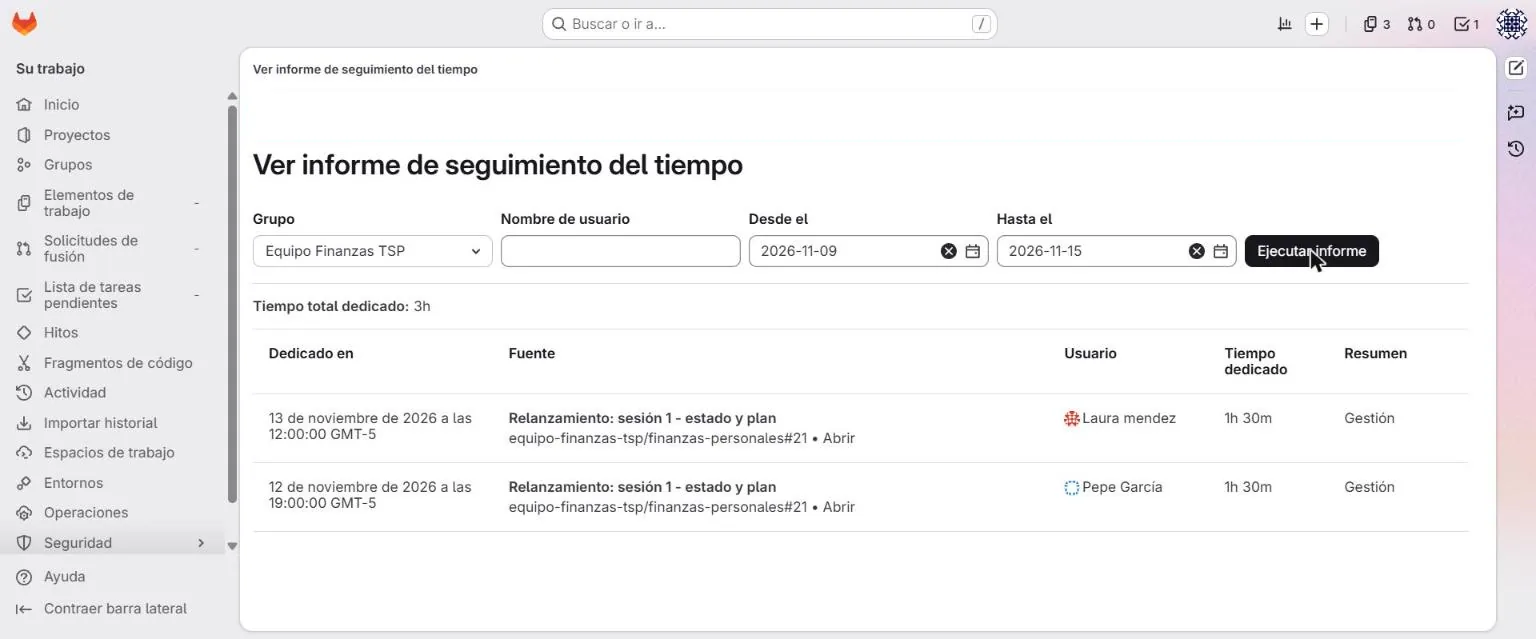
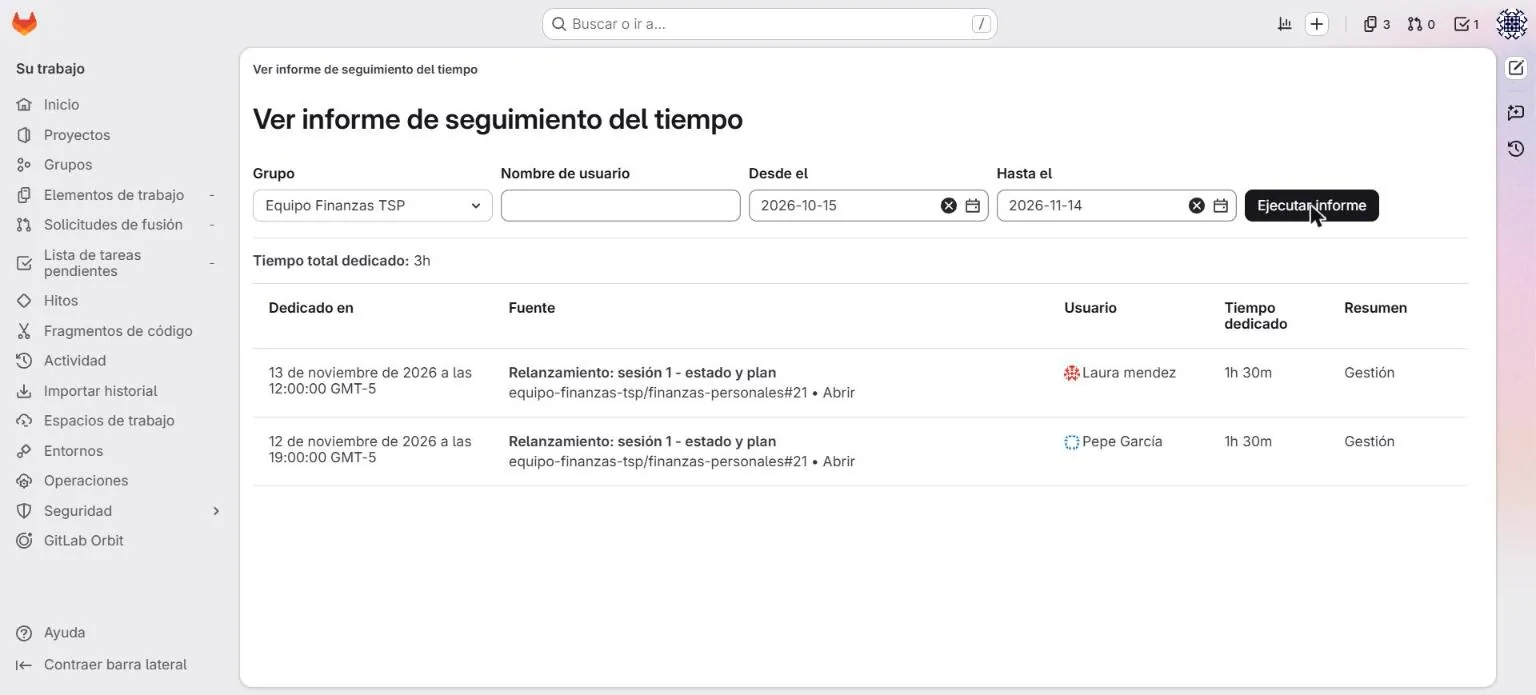
Ajustes de revisión: alcance de la Entrega 2, notificaciones, roles TSP en GitLab, informe de tiempo paso a paso
Claude-Session: https://claude.ai/code/session_01TvmXJL8nTxnQZgJsu4p4hC

diff --git a/etapa-1.html b/etapa-1.html
@@ -11,6 +11,7 @@
   <p class="kicker">Proyecto TSP en GitLab · Etapa 1</p>
   <h1>Montaje del proyecto</h1>
   <p>En esta etapa el equipo crea su espacio de trabajo en GitLab y deja configurado lo que va a usar durante el resto del proyecto: integrantes, semanas, etiquetas, plantillas y los documentos del equipo.</p>
+  <div class="alert" style="margin:1rem 0 0;background:#fff;color:var(--ink)"><strong>Este material corresponde a la Entrega 2.</strong> El material para la Entrega 3 se publicará en su momento.</div>
   <nav><a href="index.html">Inicio</a><a class="on" href="etapa-1.html">Etapa 1: montaje</a><a href="etapa-2.html">Etapa 2: planeación y registro de tiempo</a><a href="entrega-2.html">Entrega 2</a></nav>
 </div></header>
 
@@ -49,31 +50,52 @@
   </table>
   <h3>Idioma de la interfaz</h3>
   <p>GitLab muestra los menús en el idioma configurado en cada cuenta, así que algunos de ustedes lo verán en español y otros en inglés. En este manual cada nombre aparece en los dos idiomas, por ejemplo <b>Elementos de trabajo</b> <i>(Work items)</i>. Para cambiar el idioma: avatar &gt; <b>Preferencias</b> <i>(Preferences)</i> &gt; <b>Idioma</b> <i>(Language)</i>.</p>
+  <p>En el desarrollo de software es común usar los términos en inglés o anglicismos, como <i>issue</i>, <i>commit</i>, <i>merge request</i> o <i>milestone</i>, incluso cuando se habla en español. Familiarizarse con ellos desde ahora les facilita leer documentación, trabajar con otras herramientas y comunicarse en equipos de la industria.</p>
   <h3>Versión gratuita</h3>
   <p>Todo lo que se explica aquí funciona en la versión gratuita de GitLab. Al crear un grupo, GitLab puede ofrecer una prueba de 30 días de la versión de pago (Ultimate). No la necesitan, y si la activan, tengan en cuenta que las funciones adicionales desaparecen cuando termina. Usen solo lo que indica este manual.</p>
   <div class="note">En algunas páginas se abre a la derecha un panel llamado <b>GitLab Duo</b> que pide verificar la cuenta. Es un asistente de inteligencia artificial que este proyecto no usa. Pueden cerrarlo con la <b>X</b>.</div>
 </section>
 
 <section id="cuenta">
-  <span class="who">Cada uno de ustedes</span>
+  <span class="who">Lo hacen todos, cada uno por su cuenta</span>
   <h2>Cuenta personal</h2>
   <p><b>Qué es y para qué sirve.</b> En TSP cada integrante registra sus propios datos: su tiempo, sus tareas y los defectos que encuentra. Por eso cada uno trabaja con su propia cuenta, y todo lo que registre queda a su nombre.</p>
   <div class="where">En GitLab: <b>Editar perfil</b> <span class="en">(Edit profile)</span>, en el menú del avatar, arriba a la derecha.</div>
   <h3>Cómo se hace</h3>
   <ol class="steps">
-    <li>Ingresen a <b>gitlab.com</b> y creen su cuenta con <b>Registrarse</b> <i>(Register)</i>. También pueden entrar con su cuenta de Google. Confirmen el correo cuando GitLab se lo pida.</li>
+    <li>Ingresen a <b>gitlab.com</b> y creen su cuenta con <b>Registrarse</b> <i>(Register)</i>. Les recomiendo usar su correo institucional, con dominio <code>@poligran.edu.co</code>. Confirmen el correo cuando GitLab se lo pida.</li>
     <li>Seleccionen su avatar y elijan <b>Editar perfil</b> <i>(Edit profile)</i>.
       <figure><img src="etapas/img/e1-cuenta-menu.webp" alt="Menú del avatar con la opción Editar perfil"><figcaption>Menú del avatar.</figcaption></figure></li>
     <li>En <b>Nombre</b> <i>(Full name)</i> escriban su nombre y apellidos tal como aparecen en el aula virtual, y guarden con <b>Actualizar la configuración del perfil</b> <i>(Update profile settings)</i>, al final de la página.
       <figure><img src="etapas/img/e1-cuenta-nombre.webp" alt="Campo Nombre en Editar perfil"><figcaption>El nombre es el que aparece en todos sus registros.</figcaption></figure></li>
     <li>Compartan con su equipo su <b>nombre de usuario</b>, el que aparece con <code>@</code> debajo de su nombre al seleccionar el avatar. Con ese usuario los van a agregar al grupo.</li>
   </ol>
+  <h3>Notificaciones</h3>
+  <p>GitLab envía avisos al correo con el que crearon la cuenta. Por eso conviene usar el correo institucional: allí les llegan los avisos del proyecto junto con los del curso.</p>
+  <p>Con la configuración inicial, el nivel <b>Participar</b> <i>(Participate)</i>, reciben avisos cuando:</p>
+  <ul>
+    <li>les asignan una tarea, un requisito o un acta;</li>
+    <li>alguien los menciona con su <code>@usuario</code>;</li>
+    <li>hay comentarios o cambios en un elemento de trabajo en el que participan, por ejemplo uno que crearon o en el que comentaron.</li>
+  </ul>
+  <p>Los niveles disponibles son:</p>
+  <table>
+    <tr><th>Nivel</th><th>Qué notifica</th></tr>
+    <tr><td><b>Participar</b> <i>(Participate)</i></td><td>Lo descrito arriba. Es el nivel recomendado.</td></tr>
+    <tr><td><b>Ver</b> <i>(Watch)</i></td><td>Casi toda la actividad del grupo o del proyecto. Útil para el líder del equipo, aunque genera muchos correos.</td></tr>
+    <tr><td><b>En mención</b> <i>(On mention)</i></td><td>Solo los comentarios en que los mencionan.</td></tr>
+    <tr><td><b>Personalizado</b> <i>(Custom)</i></td><td>Lo de Participar más los eventos que cada uno elija. Por ejemplo, el aviso de que una tarea suya vence al día siguiente <i>(Issue due)</i>.</td></tr>
+    <tr><td><b>Deshabilitado</b> <i>(Disabled)</i></td><td>Ningún aviso. No lo usen en el grupo del equipo.</td></tr>
+  </table>
+  <p>Para revisarlo: avatar &gt; <b>Editar perfil</b> <i>(Edit profile)</i> &gt; <b>Notificaciones</b> <i>(Notifications)</i>. Allí ven el correo al que llegan los avisos, el nivel general y el nivel de cada grupo.</p>
+  <figure><img src="etapas/img/e1-notificaciones.webp" alt="Página de notificaciones del usuario"><figcaption>Correo de notificación, nivel general y nivel por grupo.</figcaption></figure>
+  <figure><img src="etapas/img/e1-notificaciones-nivel.webp" alt="Lista de niveles de notificación de un grupo"><figcaption>Niveles disponibles para el grupo del equipo.</figcaption></figure>
 </section>
 
 <section id="grupo">
   <span class="who one">Solo una persona del equipo</span>
   <h2>Grupo del equipo</h2>
-  <div class="alert"><strong>Este paso lo hace una sola persona.</strong> Pónganse de acuerdo antes de empezar; normalmente lo hace el gerente de soporte. Si varios crean grupos, el equipo queda dividido en espacios distintos y los registros no se juntan.</div>
+  <div class="alert"><strong>Este paso lo hace una sola persona.</strong> Pónganse de acuerdo antes de empezar; lo recomendable es que lo haga el gerente de soporte. Si varios crean grupos, el equipo queda dividido en espacios distintos y los registros no se juntan.</div>
   <p><b>Qué es y para qué sirve.</b> Un equipo TSP tiene integrantes claramente definidos (Lectura 2, sección 5). En GitLab el equipo es un <b>grupo</b>: reúne a los integrantes y contiene el proyecto. Quien pertenece al grupo puede trabajar en el proyecto.</p>
   <div class="where">En GitLab: botón <b>+</b> de la barra superior &gt; <b>Nuevo grupo</b> <span class="en">(New group)</span> &gt; <b>Crear grupo</b> <span class="en">(Create group)</span>.</div>
   <h3>Cómo se hace</h3>
@@ -99,10 +121,21 @@
       <figure><img src="etapas/img/e1-miembros.webp" alt="Página Miembros del grupo"><figcaption>Página de miembros con el botón Invitar miembros.</figcaption></figure></li>
     <li>Escriban el nombre de usuario de cada compañero. GitLab muestra cuántos cupos quedan: un grupo privado gratuito admite máximo cinco integrantes.
       <figure><img src="etapas/img/e1-invitar.webp" alt="Diálogo Invitar miembros"><figcaption>Diálogo de invitación con el aviso de cupos disponibles.</figcaption></figure></li>
-    <li>En <b>Rol</b> elijan <b>Encargado de mantenimiento</b> <i>(Maintainer)</i>. Con este rol todos pueden crear elementos de trabajo, editar la wiki, crear ramas e integrar código. Seleccionen <b>Invitar</b>.
+    <li>En <b>Rol</b> elijan <b>Encargado de mantenimiento</b> <i>(Maintainer)</i> para todos. Con este rol cada uno puede crear elementos de trabajo, editar la wiki, crear ramas e integrar código. Seleccionen <b>Invitar</b>.
       <figure><img src="etapas/img/e1-roles.webp" alt="Lista de roles de GitLab"><figcaption>La lista de roles; bajen hasta Encargado de mantenimiento.</figcaption></figure></li>
     <li>Cada compañero aparece en la lista de miembros y recibe un correo de aviso. Si alguno no aparece, revisen que el nombre de usuario esté bien escrito.</li>
   </ol>
+  <h3>Cómo se relacionan los roles de TSP con GitLab</h3>
+  <p>En GitLab todos tienen los mismos permisos, para que nadie dependa de otro para registrar su trabajo. Quien crea el grupo queda como <b>Propietario</b> <i>(Owner)</i>, el único que puede agregar o retirar integrantes y cambiar la configuración del grupo. Por eso conviene que lo cree el <b>gerente de soporte</b>, que en TSP responde por las herramientas del equipo y la gestión de la configuración (Lectura 3, sección 2.2).</p>
+  <p>Cada rol TSP tiene, además, responsabilidades concretas dentro de GitLab:</p>
+  <table>
+    <tr><th>Rol TSP</th><th>De qué se encarga en GitLab</th></tr>
+    <tr><td>Líder del equipo</td><td>Que cada reunión tenga su acta; revisar con el equipo la página del hito de cada semana.</td></tr>
+    <tr><td>Gerente de planeación</td><td>Hitos, tareas con estimación, fechas y responsable; seguimiento del tiempo dedicado frente al estimado.</td></tr>
+    <tr><td>Gerente de desarrollo</td><td>Requisitos con sus criterios de aceptación; más adelante, el código y su integración.</td></tr>
+    <tr><td>Gerente de calidad y proceso</td><td>Etiquetas y plantillas; registro de defectos y que todos registren su tiempo con la fase.</td></tr>
+    <tr><td>Gerente de soporte</td><td>Grupo, integrantes, proyecto y repositorio; ayudar a los compañeros con la herramienta.</td></tr>
+  </table>
 </section>
 
 <section id="proyecto">
@@ -120,7 +153,7 @@
 </section>
 
 <section id="hitos">
-  <span class="who">Uno de ustedes</span>
+  <span class="who">Lo hace una persona del equipo</span>
   <h2>Hitos: las semanas del ciclo</h2>
   <p><b>Qué es.</b> En TSP el calendario del plan se organiza por semanas, y en cada semana el equipo compromete un conjunto de tareas (Lectura 5, sección 4.4). En GitLab cada semana del ciclo es un <b>hito</b> <i>(milestone)</i>, con su fecha de inicio y su fecha de fin.</p>
   <p><b>Para qué sirve.</b> Cada tarea se asigna al hito de la semana en que se va a hacer. Así la página de cada hito muestra lo comprometido para esa semana, cuánto avanzó y cuánto tiempo se dedicó frente a lo estimado. Es la base del seguimiento semanal.</p>
@@ -136,7 +169,7 @@
 </section>
 
 <section id="etiquetas">
-  <span class="who">Uno de ustedes</span>
+  <span class="who">Lo hace una persona del equipo</span>
   <h2>Etiquetas</h2>
   <p><b>Qué es.</b> Una etiqueta <i>(label)</i> es una marca que clasifica los elementos de trabajo. En TSP los registros se clasifican para poder contarlos y analizarlos: requisitos, tareas, actas, defectos por tipo y por fase.</p>
   <p><b>Para qué sirve.</b> Con las etiquetas pueden filtrar la lista, por ejemplo ver solo los requisitos o solo las actas, y al descargar los datos cada registro lleva su clasificación.</p>
@@ -162,7 +195,7 @@
 </section>
 
 <section id="plantillas">
-  <span class="who">Uno de ustedes</span>
+  <span class="who">Lo hace una persona del equipo</span>
   <h2>Plantillas</h2>
   <p><b>Qué es.</b> En TSP los registros siguen formatos definidos: actas de reunión, reportes semanales, registros de defectos (Lectura 2, sección 3). En GitLab un formato es una <b>plantilla de descripción</b> <i>(description template)</i>: un texto que se carga en la descripción de un elemento de trabajo nuevo, con los campos que hay que diligenciar.</p>
   <p><b>Para qué sirve.</b> Con una plantilla todos registran los mismos datos, en el mismo orden, sin tener que recordar el formato. Una plantilla puede, además, poner sola su etiqueta al crear el elemento.</p>
@@ -205,7 +238,7 @@
 </section>
 
 <section id="wiki">
-  <span class="who">Todos</span>
+  <span class="who">Lo hace todo el equipo</span>
   <h2>Wiki del equipo</h2>
   <p><b>Qué es.</b> La wiki <i>(Wiki)</i> es un conjunto de páginas del proyecto que todos los integrantes pueden editar, y que guarda el historial de cada cambio. Es el lugar de los documentos del equipo.</p>
   <p><b>Para qué sirve.</b> Aquí migran la información de la Entrega 1 que sigue vigente: el planteamiento del proyecto y la conformación del equipo. Al quedar en la wiki, el equipo la actualiza en cada ciclo y queda el registro de cómo evolucionó.</p>

diff --git a/entrega-2.html b/entrega-2.html
@@ -11,6 +11,7 @@
   <p class="kicker">Proyecto TSP en GitLab · Entrega 2</p>
   <h1>Cómo preparar la Entrega 2</h1>
   <p>La evidencia de la Entrega 2 sale directamente de su proyecto en GitLab: se descarga una lista con todos los elementos de trabajo y se guardan como PDF las páginas que muestran el plan, el tiempo, las actas y los documentos del equipo.</p>
+  <div class="alert" style="margin:1rem 0 0;background:#fff;color:var(--ink)"><strong>Este material corresponde a la Entrega 2.</strong> El material para la Entrega 3 se publicará en su momento.</div>
   <nav><a href="index.html">Inicio</a><a href="etapa-1.html">Etapa 1: montaje</a><a href="etapa-2.html">Etapa 2: planeación y registro de tiempo</a><a class="on" href="entrega-2.html">Entrega 2</a></nav>
 </div></header>
 
@@ -33,9 +34,9 @@
   <h2>Qué se entrega</h2>
   <p>La Entrega 2 pide mostrar la evolución del proyecto desde la Entrega 1: las actas de los lanzamientos con su nombre correcto, los registros personales, el desarrollo, el avance y el resumen de la semana. Cada una de esas evidencias corresponde a un archivo:</p>
   <table>
-    <tr><th>Evidencia</th><th>Archivo</th><th>De dónde sale</th></tr>
-    <tr><td>Plan y avance: requisitos, tareas, responsables, estimación, tiempo dedicado, fechas, hito y estado; también los defectos registrados</td><td><code>TSP_E2_SGxx_elementos.csv</code></td><td>Elementos de trabajo &gt; Exportar como CSV</td></tr>
-    <tr><td>Registros personales de tiempo de todo el equipo</td><td><code>TSP_E2_SGxx_tiempo.pdf</code></td><td>Informe de seguimiento del tiempo del grupo</td></tr>
+    <tr><th>Evidencia</th><th>Archivo</th><th>De dónde sale</th><th>Cómo se obtiene</th></tr>
+    <tr><td>Plan y avance: requisitos, tareas, responsables, estimación, tiempo dedicado, fechas, hito y estado; también los defectos registrados</td><td><code>TSP_E2_SGxx_elementos.csv</code></td><td>Elementos de trabajo &gt; Exportar como CSV</td><td>Llega como adjunto al correo de la cuenta</td></tr>
+    <tr><td>Registros personales de tiempo de todo el equipo</td><td><code>TSP_E2_SGxx_tiempo.pdf</code></td><td>Informe de seguimiento del tiempo del grupo</td><td rowspan="5">Se guarda desde el navegador como PDF en su computador</td></tr>
     <tr><td>Resumen de la semana: tareas comprometidas, avance y tiempo dedicado frente al estimado</td><td><code>TSP_E2_SGxx_hito.pdf</code></td><td>Página del hito de la semana</td></tr>
     <tr><td>Actas del relanzamiento, con la versión 2.0 del plan</td><td><code>TSP_E2_SGxx_acta1.pdf</code>, <code>TSP_E2_SGxx_acta2.pdf</code></td><td>Cada acta del relanzamiento</td></tr>
     <tr><td>Planteamiento del proyecto actualizado</td><td><code>TSP_E2_SGxx_planteamiento.pdf</code></td><td>Wiki: Planteamiento del proyecto</td></tr>
@@ -50,7 +51,7 @@
   <ol class="steps">
     <li>Abran la página en GitLab. Para que el PDF quede más limpio, oculten el menú izquierdo con <b>Contraer barra lateral</b> <i>(Collapse sidebar)</i>, abajo a la izquierda.</li>
     <li>Presionen <b>Ctrl + P</b> (en Mac, <b>Cmd + P</b>).</li>
-    <li>En <b>Destino</b> elijan <b>Guardar como PDF</b> y seleccionen <b>Guardar</b>. Pónganle al archivo el nombre que indica la tabla.</li>
+    <li>En <b>Destino</b> elijan <b>Guardar como PDF</b> y seleccionen <b>Guardar</b>. Elijan la carpeta de su computador donde quedará el archivo y pónganle el nombre que indica la tabla.</li>
   </ol>
 </section>
 
@@ -62,19 +63,25 @@
     <li>Seleccionen el menú de tres puntos, al lado de <b>Nuevo elemento</b>, y elijan <b>Exportar como CSV</b> <i>(Export as CSV)</i>.
       <figure><img src="etapas/img/e2-exportar.webp" alt="Menú con la opción Exportar como CSV"><figcaption>Opción Exportar como CSV.</figcaption></figure></li>
     <li>Confirmen con <b>Exportar elementos de trabajo</b>. GitLab prepara el archivo y lo envía como adjunto al correo de su cuenta en unos minutos.</li>
-    <li>Descarguen el adjunto y cámbienle el nombre a <code>TSP_E2_SGxx_elementos.csv</code>.</li>
+    <li>Abran el correo, descarguen el adjunto y cámbienle el nombre a <code>TSP_E2_SGxx_elementos.csv</code>. Si no lo ven en la bandeja de entrada, revisen el correo no deseado.</li>
   </ol>
   <div class="note">Si al abrir el CSV en Excel las tildes salen mal, ábranlo desde Excel con <b>Datos</b> &gt; <b>Desde texto/CSV</b> y elijan el origen <b>UTF-8</b>.</div>
 </section>
 
 <section id="tiempo">
   <h2>Informe de tiempo del equipo</h2>
+  <p>Es una página de GitLab que reúne todos los registros de tiempo de los integrantes del grupo en un periodo: quién trabajó, qué día, en qué elemento, cuánto tiempo y en qué fase. Es el registro de tiempo de todo el equipo en una sola página. Lo puede preparar cualquier integrante.</p>
+  <p>Esta página no aparece en los menús de GitLab; se abre con su dirección.</p>
   <ol class="steps">
-    <li>Abran <a href="https://gitlab.com/-/timelogs" target="_blank" rel="noopener">gitlab.com/-/timelogs</a>.</li>
-    <li>En <b>Grupo</b> elijan el grupo del equipo. Dejen vacío <b>Nombre de usuario</b> para que aparezcan todos los integrantes; si escriben el usuario de un compañero, GitLab puede mostrar un error.</li>
-    <li>En <b>Desde el</b> pongan la fecha del primer registro del equipo y en <b>Hasta el</b>, la fecha de la entrega. Seleccionen <b>Ejecutar informe</b>.
-      <figure><img src="etapas/img/e2-informe-equipo.webp" alt="Informe de seguimiento del tiempo del grupo"><figcaption>El informe muestra el total y cada registro con fecha, elemento, persona, tiempo y fase.</figcaption></figure></li>
-    <li>Guarden la página como PDF con el nombre <code>TSP_E2_SGxx_tiempo.pdf</code>.</li>
+    <li>Con su sesión de GitLab abierta, abran en el navegador la dirección <a href="https://gitlab.com/-/timelogs" target="_blank" rel="noopener">gitlab.com/-/timelogs</a>. Aparece la página <b>Ver informe de seguimiento del tiempo</b> <i>(Time tracking report)</i>, con cuatro campos y un botón.
+      <figure><img src="etapas/img/e2-informe-1.webp" alt="Página vacía del informe de seguimiento del tiempo"><figcaption>La página del informe antes de elegir el grupo.</figcaption></figure></li>
+    <li>Seleccionen el campo <b>Grupo</b> <i>(Group)</i> y elijan el grupo de su equipo en la lista.
+      <figure><img src="etapas/img/e2-informe-2.webp" alt="Lista de grupos del informe"><figcaption>La lista muestra los grupos a los que pertenecen.</figcaption></figure></li>
+    <li>Dejen vacío el campo <b>Nombre de usuario</b> <i>(Username)</i>, para que aparezcan todos los integrantes. Si escriben el usuario de un compañero, GitLab puede mostrar un error.</li>
+    <li>En <b>Desde el</b> <i>(From)</i> escriban o elijan la fecha del primer registro de tiempo del equipo; en <b>Hasta el</b> <i>(To)</i>, la fecha de la entrega. Así el informe cubre todo el trabajo registrado.</li>
+    <li>Seleccionen <b>Ejecutar informe</b> <i>(Run report)</i>. Arriba aparece el <b>Tiempo total dedicado</b> y, debajo, una fila por cada registro.
+      <figure><img src="etapas/img/e2-informe-equipo.webp" alt="Informe de seguimiento del tiempo del grupo"><figcaption>Informe del grupo: cada fila es un registro de tiempo, con fecha, elemento, persona, tiempo y fase.</figcaption></figure></li>
+    <li>Revisen que estén los registros de todos los integrantes. Luego guarden la página como PDF, como se explica en <a href="#pdf">Guardar una página como PDF</a>, con el nombre <code>TSP_E2_SGxx_tiempo.pdf</code>.</li>
   </ol>
 </section>
 

diff --git a/etapa-2.html b/etapa-2.html
@@ -11,6 +11,7 @@
   <p class="kicker">Proyecto TSP en GitLab · Etapa 2</p>
   <h1>Planeación y registro de tiempo</h1>
   <p>En esta etapa el equipo hace el relanzamiento: registra los requisitos, arma el plan de tareas con responsables, estimaciones y fechas, y empieza a registrar el tiempo que dedica a cada tarea.</p>
+  <div class="alert" style="margin:1rem 0 0;background:#fff;color:var(--ink)"><strong>Este material corresponde a la Entrega 2.</strong> El material para la Entrega 3 se publicará en su momento.</div>
   <nav><a href="index.html">Inicio</a><a href="etapa-1.html">Etapa 1: montaje</a><a class="on" href="etapa-2.html">Etapa 2: planeación y registro de tiempo</a><a href="entrega-2.html">Entrega 2</a></nav>
 </div></header>
 
@@ -31,7 +32,7 @@
 <main>
 
 <section id="relanzamiento">
-  <span class="who">Todos</span>
+  <span class="who">Lo hace todo el equipo</span>
   <h2>El relanzamiento</h2>
   <p><b>Qué es.</b> En TSP, cuando un equipo ya tiene un plan y la situación cambia, hace un <b>relanzamiento</b>: revisa cómo va frente al plan, actualiza roles, metas y estrategia, y vuelve a planear el trabajo que falta (Lectura 6, sección 7). Pasar el proyecto a GitLab es un cambio de este tipo: el plan de la Entrega 1 se traslada a la herramienta y se ajusta a las semanas que quedan.</p>
   <p><b>Cómo se organiza.</b> La Lectura 6 describe el relanzamiento en varias reuniones. Ustedes pueden agrupar los temas en una o dos sesiones de trabajo y registrar cada sesión en un acta. Esta tabla muestra qué se hace en cada tema y dónde queda en GitLab:</p>
@@ -47,7 +48,7 @@
 </section>
 
 <section id="requisitos">
-  <span class="who">Todos, con el gerente de desarrollo</span>
+  <span class="who">Lo hace todo el equipo, con el gerente de desarrollo</span>
   <h2>Requisitos</h2>
   <div class="alert"><strong>En GitLab cada requisito es un issue.</strong> Se crea como elemento de trabajo de tipo <b>Issue</b> con la etiqueta <code>requisito</code>. Las tareas que lo construyen se crean después, dentro de él.</div>
   <p><b>Qué es.</b> Un requisito describe algo que el producto debe hacer para el usuario. En su Entrega 1 los escribieron como historias de usuario con criterios de aceptación: los criterios dicen cuándo el requisito está cumplido.</p>
@@ -66,7 +67,7 @@
 </section>
 
 <section id="tareas">
-  <span class="who">Todos, con el gerente de planeación</span>
+  <span class="who">Lo hace todo el equipo, con el gerente de planeación</span>
   <h2>Tareas del plan</h2>
   <p><b>Qué es.</b> Una tarea es una unidad de trabajo con un responsable, una estimación de tiempo, unas fechas y una evidencia de que está terminada. En la reunión de planeación TSP el equipo descompone el trabajo en tareas, las estima y les asigna fechas: así cada uno sabe qué tiene que hacer y cuándo (Lectura 5, secciones 4.3 y 4.4). Es lo que hicieron en la tabla 3.2 del Plan de lanzamiento.</p>
   <p><b>Para qué sirve.</b> Con las tareas en GitLab el plan deja de ser una tabla fija: cada tarea muestra quién la tiene, cuánto se estimó, cuánto tiempo se le ha dedicado y si está terminada. La suma de las tareas de una semana es el compromiso de esa semana.</p>
@@ -109,7 +110,7 @@
 </section>
 
 <section id="leer">
-  <span class="who">Todos</span>
+  <span class="who">Lo hace todo el equipo</span>
   <h2>Cómo se lee el plan</h2>
   <p><b>Qué es.</b> El plan del equipo es el conjunto de tareas con sus responsables, estimaciones y fechas. GitLab lo muestra en tres vistas, cada una para una pregunta distinta.</p>
   <h3>Por requisito: ¿cómo va cada requisito?</h3>
@@ -124,7 +125,7 @@
 </section>
 
 <section id="tiempo">
-  <span class="who">Cada uno de ustedes</span>
+  <span class="who">Lo hacen todos, cada uno por su cuenta</span>
   <h2>Registro de tiempo</h2>
   <p><b>Qué es.</b> Cada integrante registra el tiempo que dedica a sus tareas, con la fecha y la fase. Es la misma medición de PSP, ahora para todo el equipo: el tiempo es una de las cuatro mediciones básicas de TSP, junto con el tamaño, los defectos y el calendario (Lectura 2, sección 3).</p>
   <p><b>Para qué sirve.</b> Al comparar el tiempo dedicado con el estimado, el equipo sabe si va según el plan, y con esos datos mejora sus estimaciones en el siguiente ciclo. El registro de cada uno es también su evidencia de participación.</p>
@@ -178,7 +179,7 @@
 </section>
 
 <section id="defectos">
-  <span class="who">Quien encuentra el error</span>
+  <span class="who">Lo hace quien encuentra el error</span>
   <h2>Errores detectados</h2>
   <p><b>Qué es.</b> En TSP un defecto es cualquier cosa que esté mal en un producto del proyecto y le reste capacidad de cumplir con lo que necesita el usuario. Los defectos aparecen en el código, pero también en los requisitos, los diseños y cualquier otro documento (Lectura 8, sección 1). En esta etapa, los errores que encuentren al revisar su plan, sus requisitos o sus diseños también son defectos.</p>
   <p><b>Para qué sirve.</b> En TSP la calidad se mide con los defectos: dónde se introdujeron, dónde se encontraron y cuánto costó corregirlos. Registrarlos desde el principio les da los primeros datos de calidad del equipo.</p>
@@ -195,7 +196,7 @@
 </section>
 
 <section id="acta">
-  <span class="who">Quien registra el acta</span>
+  <span class="who">Lo hace quien registra el acta</span>
   <h2>Acta del relanzamiento</h2>
   <p><b>Qué es.</b> El acta es el registro de una sesión del relanzamiento: quiénes asistieron, qué temas se trataron, qué se decidió y qué compromisos quedaron. En TSP las reuniones del lanzamiento y del relanzamiento se nombran y se registran como tales (Actividad evaluativa, Entrega 2).</p>
   <p><b>Para qué sirve.</b> Deja constancia de las decisiones del equipo, entre ellas el cambio de plan que significa pasar a GitLab. Este cambio se registra en las decisiones del acta como versión 2.0 del plan, con su motivo y su efecto en tareas, horas y fechas.</p>

diff --git a/index.html b/index.html
@@ -22,6 +22,7 @@ section.box h2{margin:0 0 .5rem;font-size:1.3rem}
   <p class="kicker">Desarrollo de software en equipo · TSP</p>
   <h1>Proyecto TSP en GitLab</h1>
   <p>GitLab es la herramienta de soporte del equipo: allí registran el plan, el tiempo, las reuniones y el trabajo del proyecto, y de allí descargan las evidencias de cada entrega. Este material los acompaña por etapas; cada etapa explica el concepto de TSP, para qué sirve, dónde está en GitLab y cómo se hace.</p>
+  <div class="alert" style="margin:1rem 0 0;background:#fff;color:var(--ink)"><strong>Este material corresponde a la Entrega 2.</strong> El material para la Entrega 3 se publicará en su momento.</div>
 </div></header>
 
 <div class="wrap1">
@@ -33,6 +34,7 @@ section.box h2{margin:0 0 .5rem;font-size:1.3rem}
 
   <section class="box">
     <h2>Conceptos de TSP y dónde quedan en GitLab</h2>
+    <p>Esta tabla resume cómo se ve en GitLab cada concepto de TSP que trabajan en el curso, y en qué lectura se explica. Úsenla como mapa: cuando en GitLab no recuerden para qué sirve algo, búsquenlo aquí y vuelvan a la lectura; cuando en una lectura aparezca un concepto, aquí ven dónde lo registran en el proyecto.</p>
     <table>
       <tr><th>Concepto de TSP</th><th>En GitLab</th><th>En el curso</th></tr>
       <tr><td>Equipo</td><td>Grupo con sus miembros</td><td>Lectura 2, sección 5</td></tr>
@@ -51,6 +53,7 @@ section.box h2{margin:0 0 .5rem;font-size:1.3rem}
 
   <section class="box">
     <h2>Anexos</h2>
+    <p>Aquí quedan los archivos que el equipo necesita copiar en su proyecto. Más adelante, en la etapa 1, verán qué es una plantilla y cómo usar este archivo.</p>
     <ul>
       <li><a href="anexos/acta-de-relanzamiento.md" download>Plantilla del acta de relanzamiento</a> (archivo Markdown para la carpeta <code>.gitlab/issue_templates</code>)</li>
     </ul>
